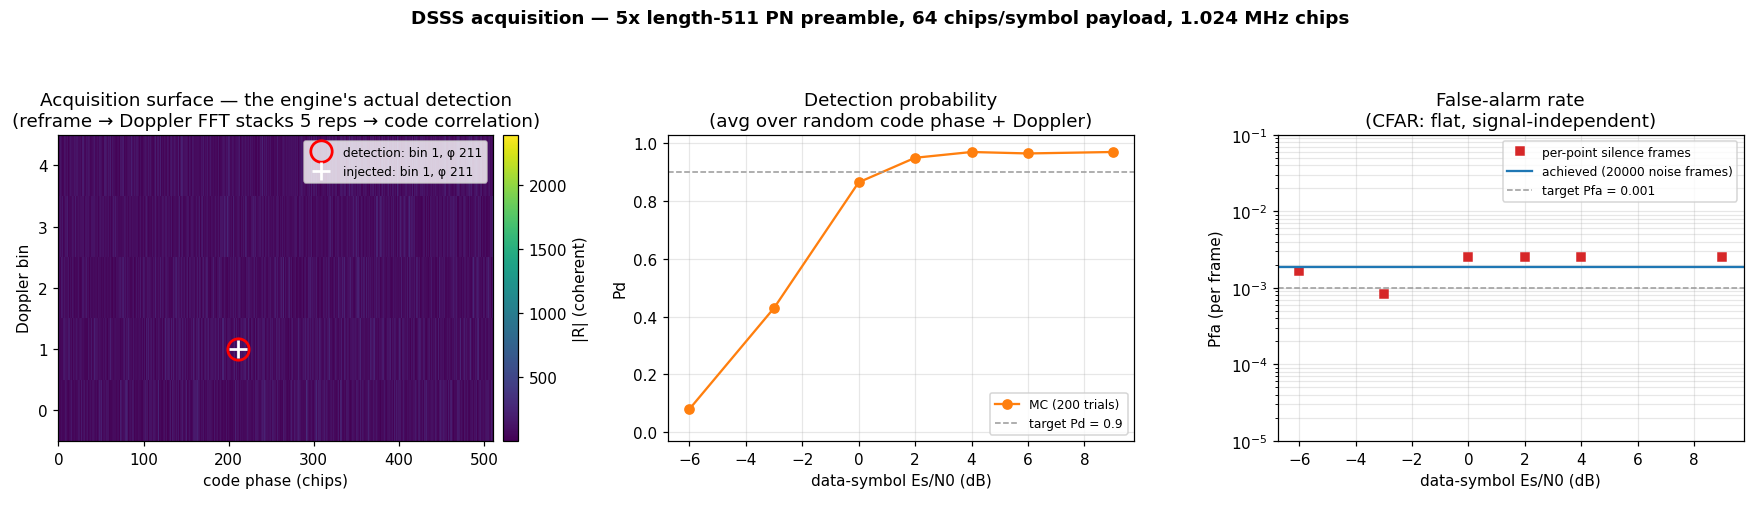
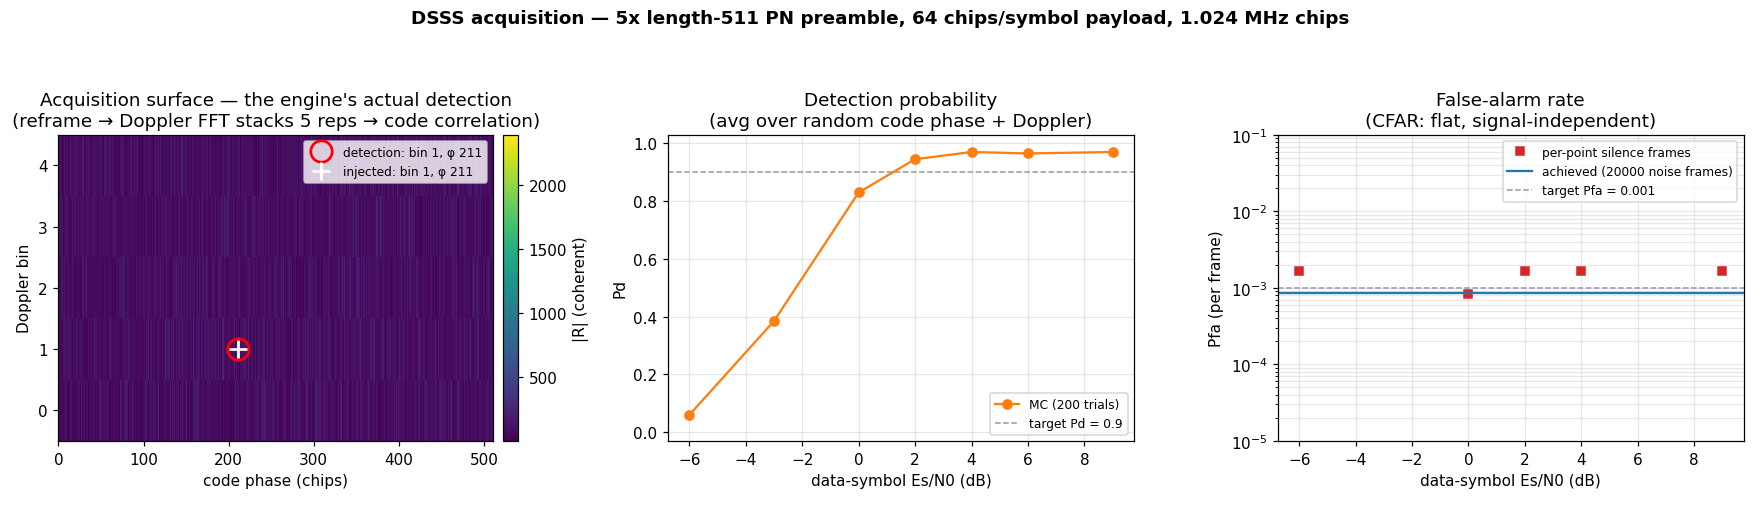
docs(acq): regenerate the certification, the pool report and the figure
With the gate priced over the interpolated surface (#2218):
- the acq certification's section 2.5 delivers 0.75x its pfa over
  20,000 frames (it was 1.45x), F7 is FIXED, and two findings stay open;
- section 2.6 measures 0.710 against 0.612 predicted at D = 8, 50 dB-Hz
  (it was 0.740 against 0.651), still never optimistic;
- the burst characterization delivers 8.5e-4 (0.85x, -0.7 sigma; it was
  1.85e-3), and its overlapped-sweep count passes at the delivered
  rate;
- the async pool's 16 s soak seeds no false alarm at 45 dB-Hz (it seeded
  one) and holds 15/15 limits.
The gallery page, the template harness's dated notes and the generated
validation log follow. Only dsss_acq_characterization.png is re-rendered;
`make gallery` also re-rendered every other PNG byte-differently on this
box, and those are not part of this change.

Refs #2218

Claude-Session: https://claude.ai/code/session_01EwuNaq7b2scuVZuydkGqSC

diff --git a/native/validation/acq_template_pd.c b/native/validation/acq_template_pd.c
@@ -33,8 +33,9 @@
  *
  * Each row is read against §2.6's bounds: measured Pd never below the
  * prediction by more than 2 sigma (never optimistic), never above it by more
- * than 0.15. Measured 2026-09-24 at 3000 trials a row: the control lands on
- * §2.6 (0.729 against its 0.740 +/- 0.025); QPSK and Zadoff-Chu are ~+0.04
+ * than 0.15. Measured 2026-10-15 at 3000 trials a row, with the gate priced
+ * over the interpolated surface (doppler#2218): the control lands on §2.6
+ * (0.695 against its 0.710 +/- 0.026); QPSK and Zadoff-Chu are ~+0.04
  * conservative, the SHAPED QPSK +0.05..+0.10 and the chirp +0.08..+0.12 --
  * the chirp's peak slides along its ridge (~0.3 samples) instead of
  * shrinking, so the model's zero-delay rotation loss overstates it. The
@@ -46,8 +47,8 @@
  * preamble, sized by the engine, under a ramp -- once with the rate
  * withheld (the sizer picks D = 10 and promises a Pd the drift takes away)
  * and once with it given (the depth caps at f_epoch/sqrt(2 rate) = 4 and
- * the prediction holds). Measured 2026-09-24 at 3000 trials: 0.911
- * promised, 0.843 delivered; told, 0.418 promised, 0.455 delivered. (D was
+ * the prediction holds). Measured 2026-10-15 at 3000 trials: 0.915
+ * promised, 0.845 delivered; told, 0.418 promised, 0.451 delivered. (D was
  * 12 and 0.648 delivered until the sizer judged the burst, doppler#1498:
  * it no longer reaches so deep a block of 16.)
  *

diff --git a/src/doppler/acquire/tests/validation/acq/results.md b/src/doppler/acquire/tests/validation/acq/results.md
@@ -5,7 +5,7 @@ Generated by `validate.py` in this folder. Every number is measured from the C i
 ## Executive summary
 
 - **Status.** **CERTIFIED** — all 22 limits hold.
-- **Findings.** 9 recorded, 3 still open: F3, F6, F7.
+- **Findings.** 9 recorded, 2 still open: F3, F6.
 
 **What a caller most needs to know**
 
@@ -108,13 +108,13 @@ The per-cell false-alarm rate is the system rate divided across every searched c
 
 | uncertainty | doppler_bins | pfa per cell | threshold eta |
 |---|---|---|---|
-| 0.25 x span | 8 | 2.690e-06 | 5.0648 |
-| 0.5 x span | 8 | 1.614e-06 | 5.1647 |
-| 1 x span | 7 | 1.153e-06 | 5.2294 |
-| 2 x span | 3 | 2.690e-06 | 5.0648 |
-| 4 x span | 5 | 1.614e-06 | 5.1647 |
+| 0.25 x span | 8 | 1.614e-06 | 5.1647 |
+| 0.5 x span | 8 | 8.965e-07 | 5.2773 |
+| 1 x span | 7 | 5.763e-07 | 5.3603 |
+| 2 x span | 21 | 1.921e-07 | 5.5615 |
+| 4 x span | 35 | 1.153e-07 | 5.6526 |
 
-The threshold rises from 5.065 to 5.165 across a 16x range of uncertainty. A caller who can bound the Doppler tighter is buying sensitivity, not just runtime.
+The threshold rises from 5.165 to 5.653 across a 16x range of uncertainty. A caller who can bound the Doppler tighter is buying sensitivity, not just runtime.
 
 **The engine says when it could not meet the request.** At `cn0_dbhz = 10` with two repetitions `underpowered` is True, and at 70 dB-Hz with eight it is False. The flag is the difference between a detector that is configured for the link and one that merely constructed.
 
@@ -124,9 +124,9 @@ Every claim above is about how the threshold is DERIVED. This one asks the only 
 
 | target pfa | realized | ratio | sigma | frames |
 |---|---|---|---|---|
-| 1e-03 | 1.45e-03 | 1.45x | +2.0 | 20000 |
+| 1e-03 | 7.50e-04 | 0.75x | -1.1 | 20000 |
 
-The detector delivers **1.45x** the false-alarm rate it was configured for (+2.0 sigma over 20000 noise frames). This run is deliberately cheap enough for `make validate-check`, so read it as a ratchet check rather than as the estimate: at a 1e-3 target, 20000 frames give ~20 expected hits and a Poisson spread near +/-0.22 on the ratio. The precise figure is **1.65 +/- 0.05** delivered, measured at 1e-2 over 60,000 frames and decomposing into 0.89 (the native model, conservative) x 1.86 (what interpolation adds). The threshold ladder is sized from the NATIVE cell count while the peak search runs on the Doppler-interpolated surface, and a maximum over a finer sampling of the same band-limited process is stochastically larger -- the scalloping-loss win of #1002, applied to H0. See F7 and doppler#1064; ratcheted at 2.2x below.
+The detector delivers **0.75x** the false-alarm rate it was configured for (-1.1 sigma over 20000 noise frames). This run is deliberately cheap enough for `make validate-check`, so read it as a ratchet check rather than as the estimate: at a 1e-3 target, 20000 frames give ~20 expected hits and a Poisson spread near +/-0.22 on the ratio. The gate is priced over every row of the Doppler-interpolated surface its maximum ranges over (F7, fixed by doppler#2218); priced over the native rows it delivered ~1.8x. The count treats each interpolated row as a fresh look, which it nearly is in the tail, so the bound is conservative by a few percent (doppler#1064 holds the measured refinement). Ratcheted at 1.5x below.
 
 ### 2.6 The Pd it delivers, against the Pd it predicts
 
@@ -134,10 +134,10 @@ The detector delivers **1.45x** the false-alarm rate it was configured for (+2.0
 
 | design point | `pd_predicted` | measured | +/- (1 sigma) | trials |
 |---|---|---|---|---|
-| D=8, 50 dB-Hz, full span | 0.651 | 0.740 | 0.025 | 300 |
+| D=8, 50 dB-Hz, full span | 0.612 | 0.710 | 0.026 | 300 |
 
 
-The model is conservative by +0.089. What remains is the H1 face of F7: the detector takes the maximum over an interpolated surface, and the Marcum form credits the on-grid cell only. That is the right side to err on for sizing, and it is the same mechanism doppler#1064 tracks on H0.
+The model is conservative by +0.098. What remains is the H1 face of F7's mechanism: the detector takes the maximum over an interpolated surface, and the Marcum form credits the on-grid cell only. That is the right side to err on for sizing; on H0 the same maximum is priced since doppler#2218.
 
 ### 2.7 The reported C/N0 tracks the injected one
 
@@ -159,7 +159,7 @@ Worst **1.92 dB** over three levels. The header is explicit that this saturates 
 |---|---|---|---|
 | mean | 2 | 24.8636 | 39.34 |
 | median | 2 | 17.8828 | 54.70 |
-| min | 2 | 0.4682 | 2089.40 |
+| min | 2 | 0.4682 | 2089.39 |
 | max | 0 | — | no detection |
 
 Dividing by the smallest reference cell is a far more optimistic detector than dividing by the largest, so `min` produces the biggest statistic and `max` the smallest — and at a given signal level `max` can legitimately suppress detection entirely. That is the point of offering the choice, and it is now asserted as an ordering rather than left to the default.
@@ -184,22 +184,22 @@ A reset mid-frame leaves the engine behaving like a fresh one (**True**), and a 
 
 | preamble | C/N0 | `pd_predicted` | measured | +/- (1 sigma) | gap | \|delay err\| | never optimistic? |
 |---|---|---|---|---|---|---|---|
-| code 31 x4 (ctl) | 50.00 | 0.651 | 0.729 | 0.008 | +0.078 | 0.41 | yes |
-| code 31 x4 | 48.25 | 0.330 | 0.416 | 0.009 | +0.086 | 0.48 | yes |
-| code 31 x4 | 49.75 | 0.606 | 0.708 | 0.008 | +0.102 | 0.42 | yes |
-| code 31 x4 | 52.00 | 0.908 | 0.935 | 0.005 | +0.027 | 0.38 | yes |
-| Zadoff-Chu 127 | 42.75 | 0.316 | 0.354 | 0.009 | +0.038 | 0.85 | yes |
-| Zadoff-Chu 127 | 44.75 | 0.636 | 0.687 | 0.008 | +0.051 | 1.37 | yes |
-| Zadoff-Chu 127 | 47.25 | 0.915 | 0.957 | 0.004 | +0.042 | 2.60 | yes |
-| chirp 128 | 42.75 | 0.320 | 0.396 | 0.009 | +0.076 | 0.29 | yes |
-| chirp 128 | 44.50 | 0.602 | 0.724 | 0.008 | +0.122 | 0.30 | yes |
-| chirp 128 | 47.00 | 0.900 | 0.978 | 0.003 | +0.078 | 0.33 | yes |
-| QPSK 96 | 44.00 | 0.303 | 0.342 | 0.009 | +0.039 | 0.30 | yes |
-| QPSK 96 | 46.00 | 0.606 | 0.649 | 0.009 | +0.043 | 0.21 | yes |
-| QPSK 96 | 48.75 | 0.907 | 0.948 | 0.004 | +0.041 | 0.25 | yes |
-| QPSK 96 shaped | 43.50 | 0.328 | 0.393 | 0.009 | +0.065 | 0.40 | yes |
-| QPSK 96 shaped | 45.25 | 0.635 | 0.739 | 0.008 | +0.104 | 0.41 | yes |
-| QPSK 96 shaped | 47.50 | 0.909 | 0.954 | 0.004 | +0.045 | 0.35 | yes |
+| code 31 x4 (ctl) | 50.00 | 0.612 | 0.695 | 0.008 | +0.083 | 0.41 | yes |
+| code 31 x4 | 48.50 | 0.331 | 0.416 | 0.009 | +0.085 | 0.43 | yes |
+| code 31 x4 | 50.00 | 0.612 | 0.714 | 0.008 | +0.102 | 0.39 | yes |
+| code 31 x4 | 52.25 | 0.912 | 0.938 | 0.004 | +0.026 | 0.38 | yes |
+| Zadoff-Chu 127 | 43.00 | 0.317 | 0.352 | 0.009 | +0.035 | 0.69 | yes |
+| Zadoff-Chu 127 | 44.75 | 0.602 | 0.651 | 0.009 | +0.050 | 1.17 | yes |
+| Zadoff-Chu 127 | 47.25 | 0.901 | 0.946 | 0.004 | +0.045 | 2.54 | yes |
+| chirp 128 | 43.00 | 0.322 | 0.397 | 0.009 | +0.075 | 0.25 | yes |
+| chirp 128 | 44.75 | 0.607 | 0.727 | 0.008 | +0.120 | 0.29 | yes |
+| chirp 128 | 47.25 | 0.904 | 0.980 | 0.003 | +0.077 | 0.33 | yes |
+| QPSK 96 | 44.25 | 0.303 | 0.338 | 0.009 | +0.036 | 0.25 | yes |
+| QPSK 96 | 46.25 | 0.609 | 0.654 | 0.009 | +0.046 | 0.21 | yes |
+| QPSK 96 | 49.00 | 0.909 | 0.950 | 0.004 | +0.040 | 0.25 | yes |
+| QPSK 96 shaped | 43.75 | 0.326 | 0.389 | 0.009 | +0.063 | 0.36 | yes |
+| QPSK 96 shaped | 45.50 | 0.637 | 0.739 | 0.008 | +0.102 | 0.37 | yes |
+| QPSK 96 shaped | 47.75 | 0.911 | 0.956 | 0.004 | +0.045 | 0.32 | yes |
 
 
 Every row is conservative, the side the model is built to err on. The code's margin thins toward the default: +0.09 and +0.10 at 0.3 and 0.6, +0.03 at 0.9. So the 0.9 row is the one that would see a model whose slope is wrong at the top, and the spot check asserts it: a sabotage that made the model 0.08 optimistic at 0.9 for the code alone (0.02 at 0.65) turned that row red and left the 0.65 control green. Its resolution is that margin plus 2 sigma, about 0.05: a uniform +0.04 is absorbed, because the harness finds the design point through the model it tests. QPSK and Zadoff-Chu are conservative by ~0.04, the SHAPED QPSK by 0.05-0.10, the chirp by up to ~0.12 -- a chirp's correlation peak slides along its delay-Doppler ridge (~0.3 samples) instead of shrinking, so the zero-delay rotation loss the model charges overstates it. The shaped QPSK was OPTIMISTIC by 0.02-0.03 until the model priced the CFAR reference the gate divides by (F8, doppler#1483, doppler#1501). Zadoff-Chu's delay error is whole samples at 0.9 because its Doppler sensitivity moves the peak: the capture's refine, not the detector, owns the exact start.
@@ -210,9 +210,9 @@ A Doppler rate moves the carrier during a block and smears it across slow-time r
 
 | engine | D | `pd_predicted` | measured | +/- (1 sigma) | gap | never optimistic? |
 |---|---|---|---|---|---|---|
-| no ramp (control) | 10 | 0.911 | 0.955 | 0.004 | +0.044 | yes |
-| ramp (rate not given) | 10 | 0.911 | 0.843 | 0.007 | -0.068 | **no** |
-| ramp (rate given) | 4 | 0.418 | 0.455 | 0.009 | +0.037 | yes |
+| no ramp (control) | 10 | 0.915 | 0.954 | 0.004 | +0.039 | yes |
+| ramp (rate not given) | 10 | 0.915 | 0.845 | 0.007 | -0.070 | **no** |
+| ramp (rate given) | 4 | 0.418 | 0.451 | 0.009 | +0.033 | yes |
 
 
 Not told the rate, the engine is sized at the depth the Pd target alone picks and promises a Pd the ramp takes away. Told it, the depth is capped, the engine reports `underpowered`, and it predicts the Pd it delivers. A caller learns at construction that this link cannot be closed coherently, instead of from a quiet stream.
@@ -231,7 +231,7 @@ Not told the rate, the engine is sized at the depth the Pd target alone picks an
 
 - **F5 · BY DESIGN** — `cn0_dbhz_est` saturates once the true C/N0 exceeds what the code and geometry can resolve, because the CFAR reference cells then contain the code's own autocorrelation sidelobes rather than receiver noise. The header states this and §2.7 measures inside the linear region deliberately. Worth a caller's attention: the estimate is a floor on the true C/N0 at high signal levels, not a measurement of it.
 
-- **F7 · CONFIRMED** — **The detector delivers ~1.8x the false-alarm rate it is configured for.** `acq_commit_thresholds()` sizes `pfa_cell` from the NATIVE cell count `searched_bins * code_bins`, with no term for `ACQ_DOPPLER_INTERP` -- argued in `acq_core.c` on the grounds that frequency-domain zero-padding adds no new *information*. That is true, and it is not the relevant argument: the detector takes the MAXIMUM over the surface rather than integrating it, and the maximum of a band-limited process sampled finely is stochastically larger than the same process sampled coarsely. Interpolation finds noise peaks that used to fall between bins -- the scalloping-loss win of #1002 (~3.9 dB -> ~0.9 dB), applied to H0. Measured over 60,000 noise frames at pfa=1e-2 with only the interpolation factor changed, it decomposed into two errors of OPPOSITE sign: `N_eff(1)/N` = **0.89 +/- 0.04** and `N_eff(2)/N_eff(1)` = **1.86 +/- 0.09**, netting **1.65 +/- 0.05** delivered to a caller. The 0.89 was read then as adjacent DFT bins not being perfectly independent. It was not: at an even coherent depth the full-band search never looked at its outermost native bin (doppler#1183), so 7 of the 8 counted bins were searched -- 7/8 = 0.875. With the band searched to its edge the conservative half is gone and the delivered ratio moves toward the interpolation factor alone (§2.5 re-measures it). Quoting 1.86 alone would be quoting the ratio between two BUILDS rather than the rate anyone experiences. The FORM is right: the ratio held across three decades of target (1.65/1.40/1.50 at 1e-2/1e-3/1e-4 with interpolation on), which is a multiplicative cell-count error and not a miscalibrated per-cell threshold -- that would drift with the target. `pd_predicted` and `underpowered` derive from the same `pfa_cell`, so the link-budget prediction is optimistic by the same factor -- and conservative by a larger one, because the Marcum form does not credit the maximum over an interpolated surface under H1 (§2.6). Ratcheted at 2.2x by the limit below so the gap cannot widen unnoticed; the fix is NOT a Bonferroni over `interp` (the interpolated cells are correlated, so that over-corrects and costs sensitivity) but the ratio between the expected maxima of the two surfaces. doppler#1064.
+- **F7 · FIXED** — **The detector delivered ~1.8x the false-alarm rate it was configured for; it now delivers the configured rate.** `acq_commit_thresholds()` sized `pfa_cell` from the NATIVE cell count `searched_bins * code_bins`, while the gate's maximum runs over the Doppler-INTERPOLATED surface. Zero-padding adds no new *information*, but a maximum over a finer sampling of the same band-limited process is stochastically larger: interpolation finds noise peaks that used to fall between bins, the scalloping-loss win of #1002 (~3.9 dB -> ~0.9 dB) applied to H0. The 0.89 'conservative native model' once quoted beside it was doppler#1183 (an even depth never searched its outermost bin), not cell correlation: with the band searched to its edge the native maximum is on target, and the delivered ratio was the interpolation factor alone (1.86-1.93x at 1e-3 on the burst engine, doppler#2218). doppler#2218 prices the gate over the cells the maximum ranges over (`acq_band_cells`: every searched row of the interpolated surface, times `code_bins`), at all three sites that price one. That is a never-exceed bound: an interpolated row is correlated with its native neighbours, so the count is conservative by what that correlation is worth (0.95-0.97x measured at 1e-3, 1e6 dwells a row), about 0.015 dB of sensitivity. The measured per-geometry `N_eff` that would recover it is doppler#1064's open refinement. §2.5 re-measures the delivered rate.
 
 - **F8 · FIXED** — **A shaped template's `pd_predicted` was optimistic.** QPSK through a 5-tap low-pass delivered 0.02-0.03 less Pd than it predicted, at up to 3 sigma of 3000 trials. The cause was not the straddle but the noise reference: the gate divides by the mean magnitude of the surface, peak included, and a template's correlation energy OFF its peak lands in those cells. Shaping spreads that energy; a code's sidelobes do the same, far more (a 7-chip code at D = 1 delivered 0.23 against a predicted 0.92). The model now prices the finite, self-inflated reference (doppler#1501), and the shaped rows are conservative by 0.05-0.10 (§2.10). The ratchet this finding carried is now the same bound every template keeps (doppler#1483).
 
@@ -251,8 +251,8 @@ Claims a caller may rely on. A failure here is a regression, not a new finding. 
 | PASS | burst mode spends its budget on coherent depth: a weak signal uses more Doppler bins than a strong one |
 | PASS | the searched reach (doppler_bins * doppler_res_hz / 2) covers the requested uncertainty at 0.5x, 0.95x, 2x and 4x the native span |
 | PASS | the native span is chip_rate/(2*sf), as documented |
-| PASS | the realized false-alarm rate stays inside its ratchet against the configured target -- a RATCHET, not a bound: it sits at ~1.8x today (F7, doppler#1064) and may only shrink |
-| PASS | `pd_predicted` describes the Pd delivered over the uniform prior: measured 0.74 against 0.65 predicted at D=8, 50 dB-Hz -- never optimistic (within 2 sigma of 300 trials), never more than 0.15 pessimistic (§2.6) |
+| PASS | the realized false-alarm rate stays inside its ratchet against the configured target -- a RATCHET on a 20,000-frame run, whose Poisson spread is ~+/-0.22: on target since doppler#2218 (F7), and it may only shrink |
+| PASS | `pd_predicted` describes the Pd delivered over the uniform prior: measured 0.71 against 0.61 predicted at D=8, 50 dB-Hz -- never optimistic (within 2 sigma of 300 trials), never more than 0.15 pessimistic (§2.6) |
 | PASS | the per-cell threshold rises with the searched cell count — a tighter uncertainty prior buys sensitivity, not just runtime |
 | PASS | `underpowered` is set when the link cannot meet the requested pd and clear when it can |
 | PASS | cn0_dbhz_est tracks an injected C/N0 to 1.92 dB across three levels inside the linear region |
@@ -270,6 +270,6 @@ Claims a caller may rely on. A failure here is a regression, not a new finding. 
 
 ## 5. Summary
 
-- **9 findings**, 3 of them gaps or confirmed defects: F3, F6, F7
+- **9 findings**, 2 of them gaps or confirmed defects: F3, F6
 - **22/22 limits** hold
 - Raw sweeps: `data/span.csv`, `data/threshold.csv`, `data/cn0.csv`

diff --git a/src/doppler/dsss/tests/validation/async_dsss_pool/results.md b/src/doppler/dsss/tests/validation/async_dsss_pool/results.md
@@ -48,7 +48,7 @@ Every number below is the soak's regression subset: 2 emitters from the shipped 
 
 | C/N0 dB-Hz | stints (scored) | missed | false releases | double assignments (blocks) | released past 2 intervals / past 1 | on-time releases | seeds matching no emitter | hits dropped | most assigned |
 |---|---|---|---|---|---|---|---|---|---|
-| 45 | 3 (3) | 0 | 0 | 0 | 0 / 0 | 1 | 1 | 0 | 3 of 12 |
+| 45 | 3 (3) | 0 | 0 | 0 | 0 / 0 | 1 | 0 | 0 | 2 of 12 |
 
 ### 2.2 Time to a slot, and the seed
 
@@ -68,7 +68,7 @@ At 45 dB-Hz the emitter's own data blocks seed it in the first block or two — 
 
 | C/N0 dB-Hz | heap after warm-up MiB | largest first-use step KiB | growth since the last first use KiB | resident high-water mark MiB |
 |---|---|---|---|---|
-| 45 | 501.6 | 0.1 | +0.0 | 254.1 → 254.1 |
+| 45 | 501.6 | 5.7 | +0.0 | 253.8 → 253.8 |
 
 The heap is sampled once a second after a warm-up and re-based at every slot's first tracking — a receiver builds its track chain on its first seed, a first-use step kept apart from growth with time (section 5.1). The searcher's block and surface at D = 154 are the half gigabyte.
 
@@ -80,7 +80,7 @@ The heap is sampled once a second after a warm-up and re-based at every slot's f
 
 - **F3 · FIXED** — The refine's dwell was floored at `refine_min_blocks` (seven): sized for detection alone it shrank to two blocks at 45 dB-Hz, where one hand-over in sixty fell outside the tracking chain's pull-in (section 12.16, #1265). Superseded — the pool is on cell receivers, which build no refine chain, and the knob is gone (section 12.28, #1283).
 
-- **F4 · BY DESIGN** — The searcher's false alarms are part of the lifecycle: at pfa 1e-3 a noise peak seeds a free slot, refines to nothing, reports tracking with both flags down and is released one interval later. The realized rate is about twice the configured one (#1064). No expectation may therefore be a count of slots. It is an identification instead, and the two rules that meet there stay apart: the pool occupies a slot by the **seed code phase** alone (hence a zone at every Doppler), while this harness, which has the truth, confirms whose slot it is on both coordinates. `n_slots` carries the headroom.
+- **F4 · BY DESIGN** — The searcher's false alarms are part of the lifecycle: at pfa 1e-3 a noise peak seeds a free slot, refines to nothing, reports tracking with both flags down and is released one interval later. The realized rate is the configured one since doppler#2218 (it was about twice that). No expectation may therefore be a count of slots. It is an identification instead, and the two rules that meet there stay apart: the pool occupies a slot by the **seed code phase** alone (hence a zone at every Doppler), while this harness, which has the truth, confirms whose slot it is on both coordinates. `n_slots` carries the headroom.
 
 - **F5 · CONFIRMED** — Each receiver builds its track chain on its first seed and frees it on reset (#1269) — a per-transition allocation, not a leak: the heap is flat once every slot has been used once, and the soak reports the first-use step apart from growth. The refine chain that was also built per seed went with the hand-off flavour (section 12.28, #1283).
 

diff --git a/docs/design/dsss-acquisition.md b/docs/design/dsss-acquisition.md
@@ -188,7 +188,7 @@ constructors accept it: any finite `cn0_dbhz` is a design point, and NaN
 
     | preamble                                                              | Δ Pd                  | mean \|delay error\| | reads as                            |
     | --------------------------------------------------------------------- | --------------------- | -------------------- | ----------------------------------- |
-    | code, 31 chips × 4 (control: §2.6 measured 0.740 ± 0.025, this 0.695) | +0.08                 | 0.4 samples          | the harness reproduces §2.6         |
+    | code, 31 chips × 4 (control: §2.6 measured 0.710 ± 0.026, this 0.695) | +0.08                 | 0.4 samples          | the harness reproduces §2.6         |
     | random-phase QPSK, 96                                                 | +0.04 / +0.05 / +0.04 | 0.2–0.3              | conservative                        |
     | Zadoff-Chu, 127                                                       | +0.04 / +0.05 / +0.05 | 0.7–2.5              | conservative                        |
     | chirp, 128                                                            | +0.08 / +0.12 / +0.08 | 0.3                  | conservative: the ridge slide above |
@@ -816,7 +816,8 @@ prior was undetectable at any C/N0 — a Pd ceiling of (D−1)/D, and the
 between-channel hole of #1179. Fixed to search to the edge. The Pd model
 (`acq_mean_pd`) now derates slow-time scalloping over the *interpolated*
 bin the peak search samples rather than the native one: at D=8, 50 dB-Hz
-it read 0.47 where the engine measures 0.72; it reads 0.63 now, and stays
+it read 0.47 where the engine measured 0.72. It reads 0.61 against 0.71
+measured now, with the gate priced over the interpolated surface (#2218), and stays
 conservative because the Marcum form does not credit the maximum over an
 interpolated surface under H1 (the H1 face of §9.1's maximum).
 

diff --git a/docs/dev/contributing/validation-log.md b/docs/dev/contributing/validation-log.md
@@ -64,7 +64,7 @@ There is no list here to update.
 
 | object                                                                                                                                 | module       | limits | findings | still open                 |
 | -------------------------------------------------------------------------------------------------------------------------------------- | ------------ | ------ | -------- | -------------------------- |
-| [acq](https://github.com/doppler-dsp/doppler/blob/main/src/doppler/acquire/tests/validation/acq/results.md)                            | `acquire`    | 22/22  | 9        | 3 — F3, F6, F7             |
+| [acq](https://github.com/doppler-dsp/doppler/blob/main/src/doppler/acquire/tests/validation/acq/results.md)                            | `acquire`    | 22/22  | 9        | 2 — F3, F6                 |
 | [BurstAcquisition](https://github.com/doppler-dsp/doppler/blob/main/src/doppler/acquire/tests/validation/burst_acq/results.md)         | `acquire`    | 16/16  | 4        | none                       |
 | [BurstCapture](https://github.com/doppler-dsp/doppler/blob/main/src/doppler/acquire/tests/validation/burst_capture/results.md)         | `acquire`    | 27/27  | 7        | 1 — F6                     |
 | [AGC](https://github.com/doppler-dsp/doppler/blob/main/src/doppler/agc/tests/validation/agc/results.md)                                | `agc`        | 18/18  | 6        | 2 — F4, F6                 |

diff --git a/docs/gallery/dsss-acq-characterization.md b/docs/gallery/dsss-acq-characterization.md
@@ -54,13 +54,15 @@ search — an honest operating curve, not the on-bin best case.
 
 **Right — Pfa vs Es/N0.** The false-alarm rate, measured on the noise-only
 (silence) frames. It is set by the engine's CFAR threshold and is **independent
-of the signal**, so it stays flat across the whole sweep — but above the
-configured `pfa = 1e-3`, not on it. The solid line is the achieved rate over a
-20 000-frame noise-only run: `1.85e-3`, 1.85× the target. The threshold is
-sized from the native cell count while the peak search runs on the
-interpolated surface, which offers the noise more chances
-([#1064](https://github.com/doppler-dsp/doppler/issues/1064)); a ratchet holds
-the ratio under 2.2× until that is fixed. The squares are the noisier
+of the signal**, so it stays flat across the whole sweep, at or just under
+the configured `pfa = 1e-3`. The solid line is the achieved rate over a
+20 000-frame noise-only run: `8.5e-4`, 0.85× the target (−0.7 sigma). The
+gate is priced over every row of the Doppler-interpolated surface its
+maximum ranges over, a never-exceed bound
+([#2218](https://github.com/doppler-dsp/doppler/issues/2218); the measured
+refinement is [#1064](https://github.com/doppler-dsp/doppler/issues/1064)).
+Priced over the native rows, it fired at 1.85×. A ratchet holds the ratio
+under 1.5×. The squares are the noisier
 per-Es/N0 estimates.
 
 ## How it works
